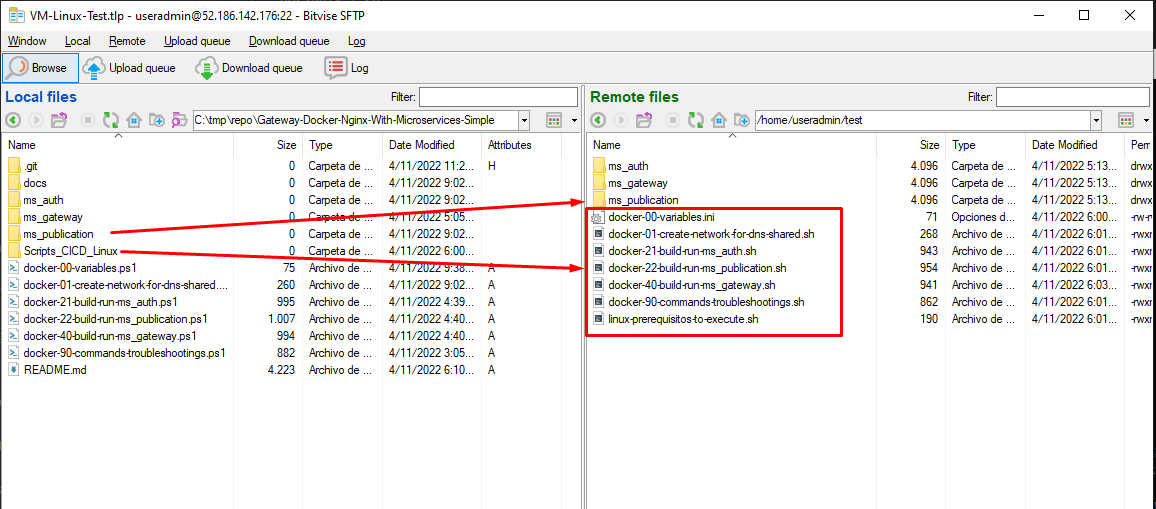
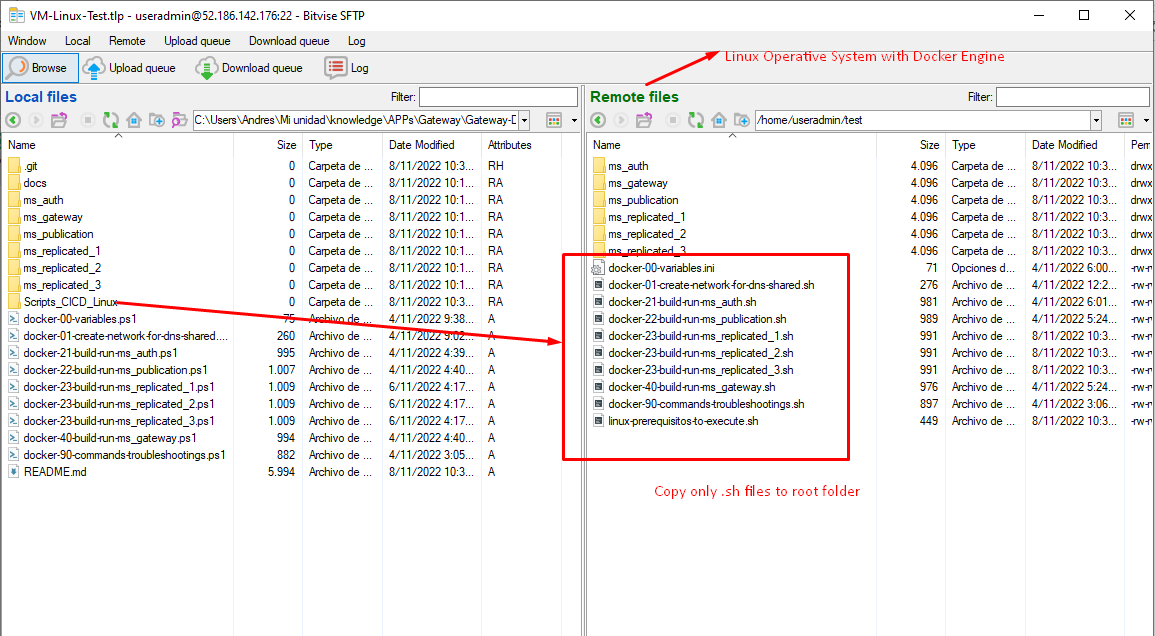
update docks and linux scripts

Changed region(s): [[0.0, 0.0, 1.0, 1.0], [0.561, 0.7662, 0.7481, 0.7957]]

diff --git a/README.md b/README.md
@@ -8,7 +8,7 @@
 - Each script for create container, show de logs for troubleshotting in case exist error in code or nginx server
 - Each container, have a tools for testing ping/dig or browse web (curl) in case need that, this tools can erase in production deploy
 
-# Descripción de los archivos
+# Description of the files
     .
     |-- docs/                                        # Documentations
     |   |-- photos/                                  # Screenshots for running system
